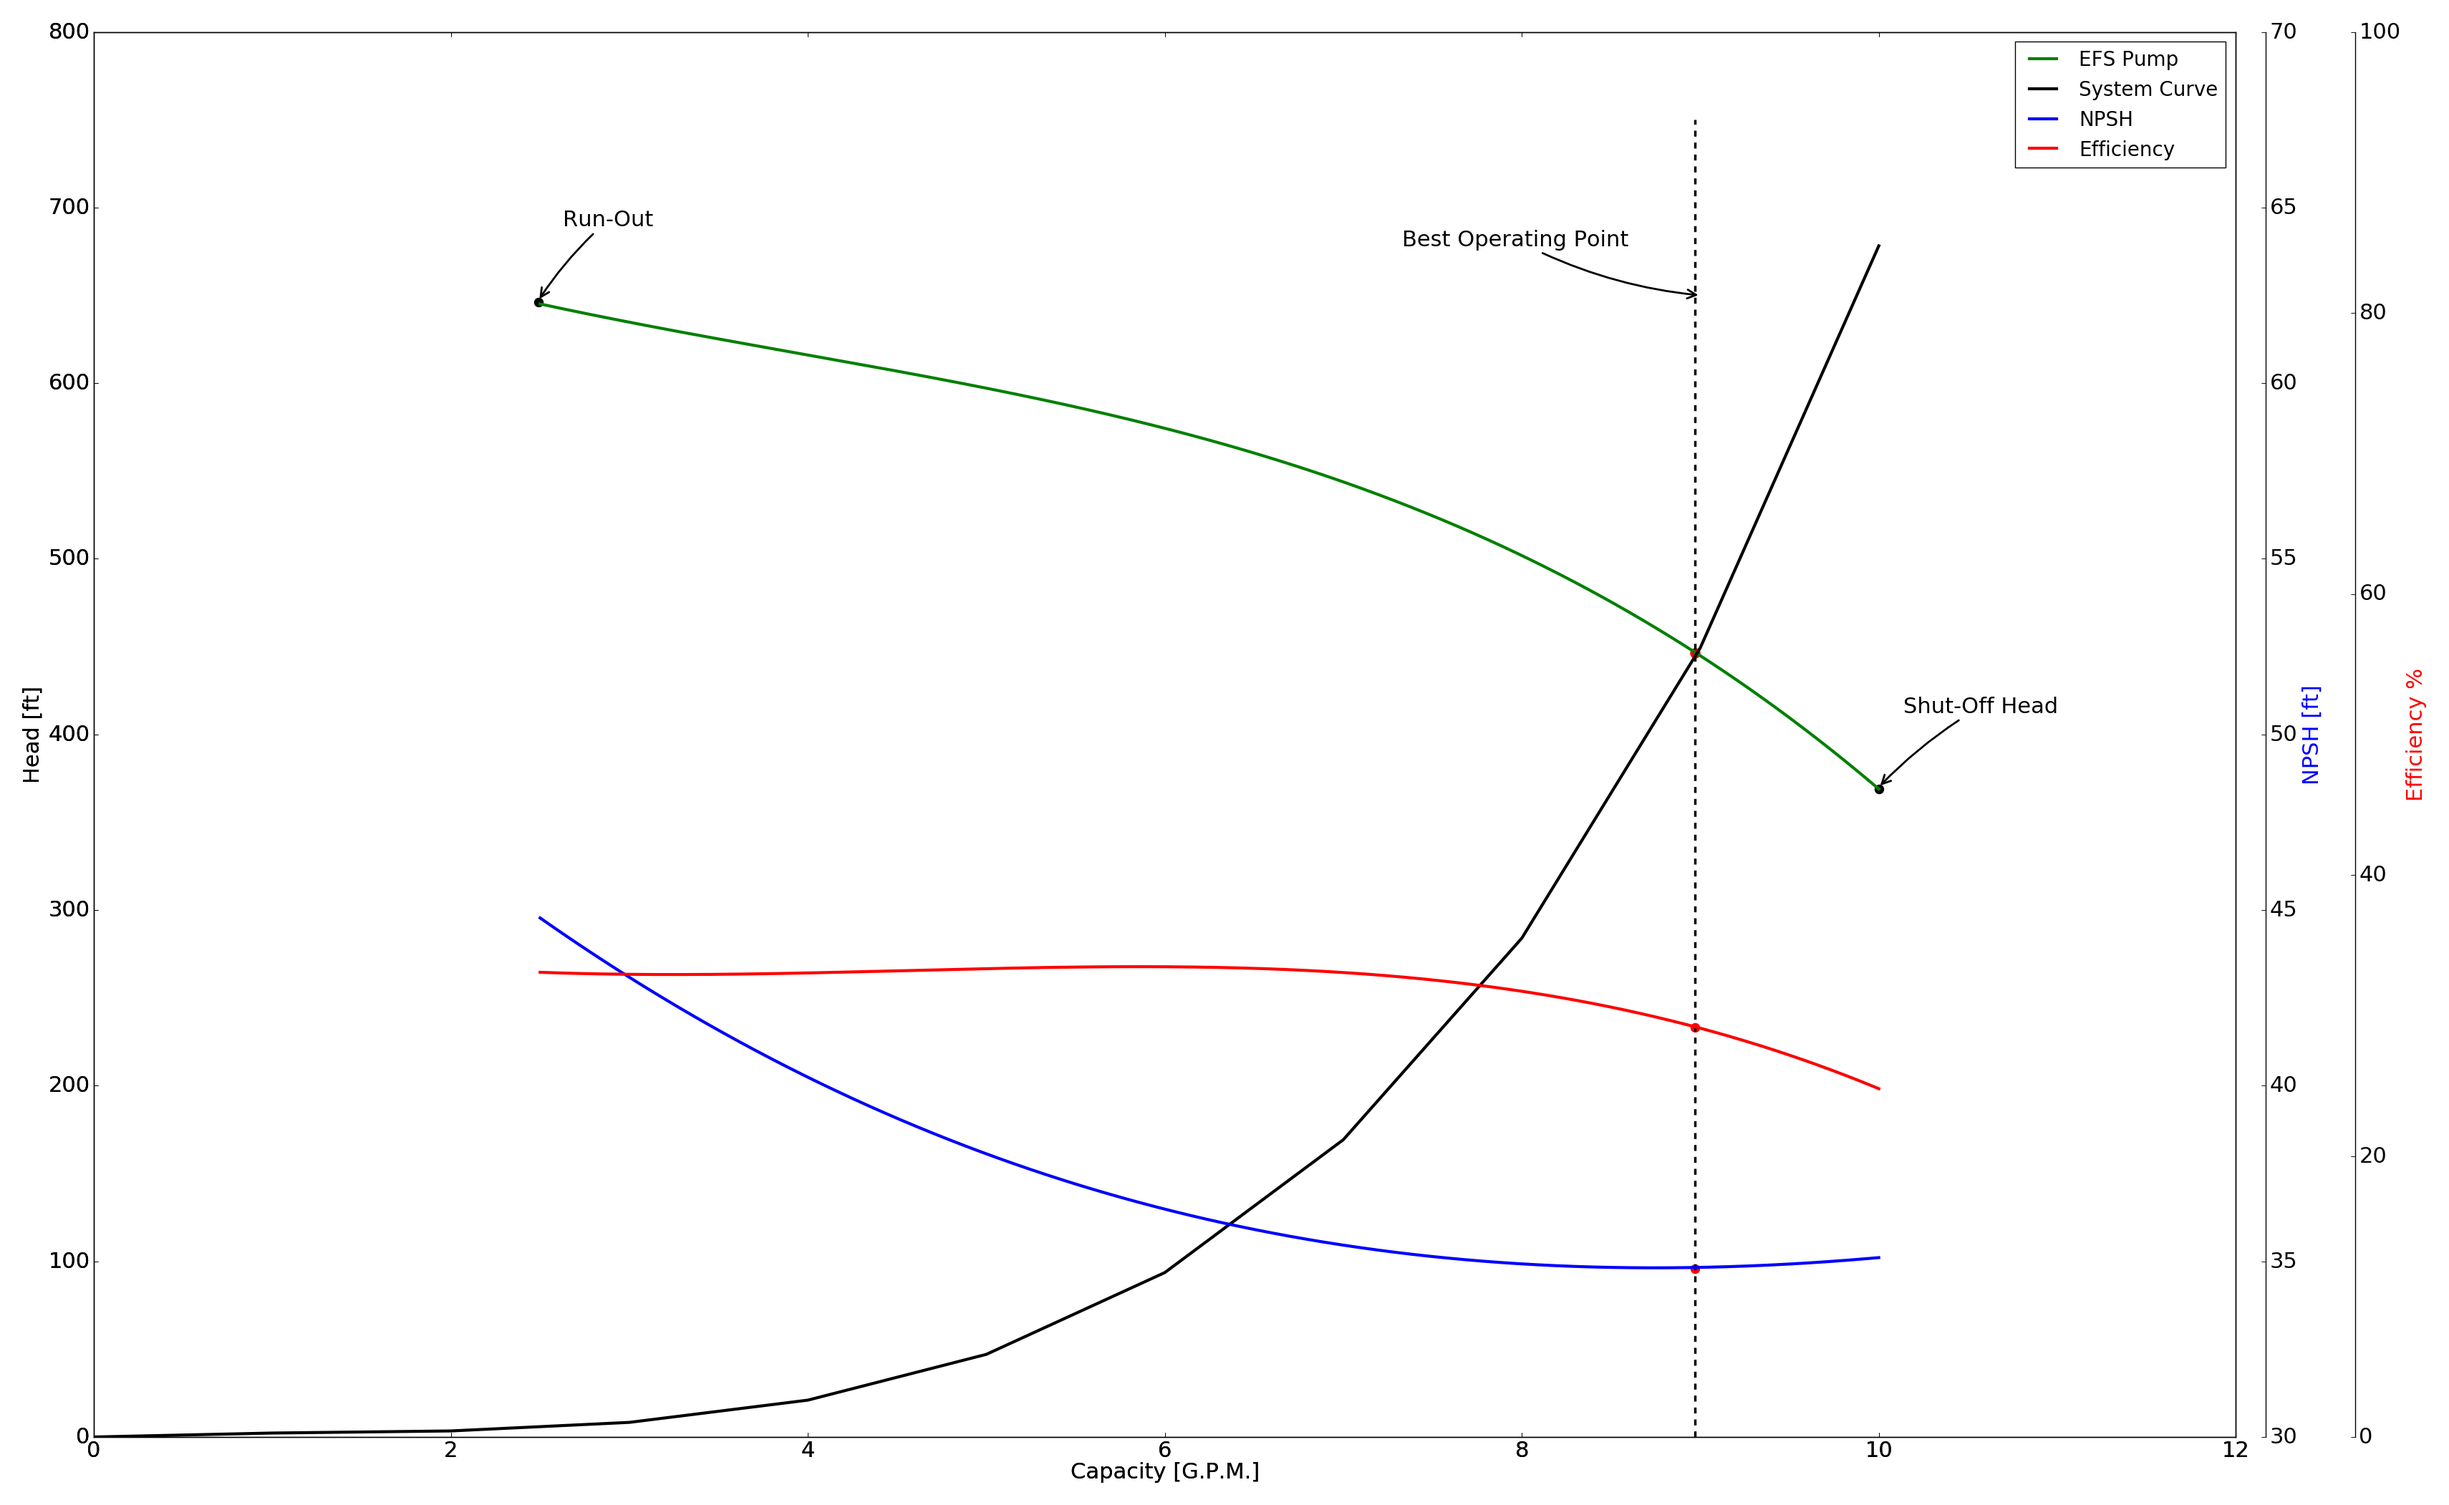
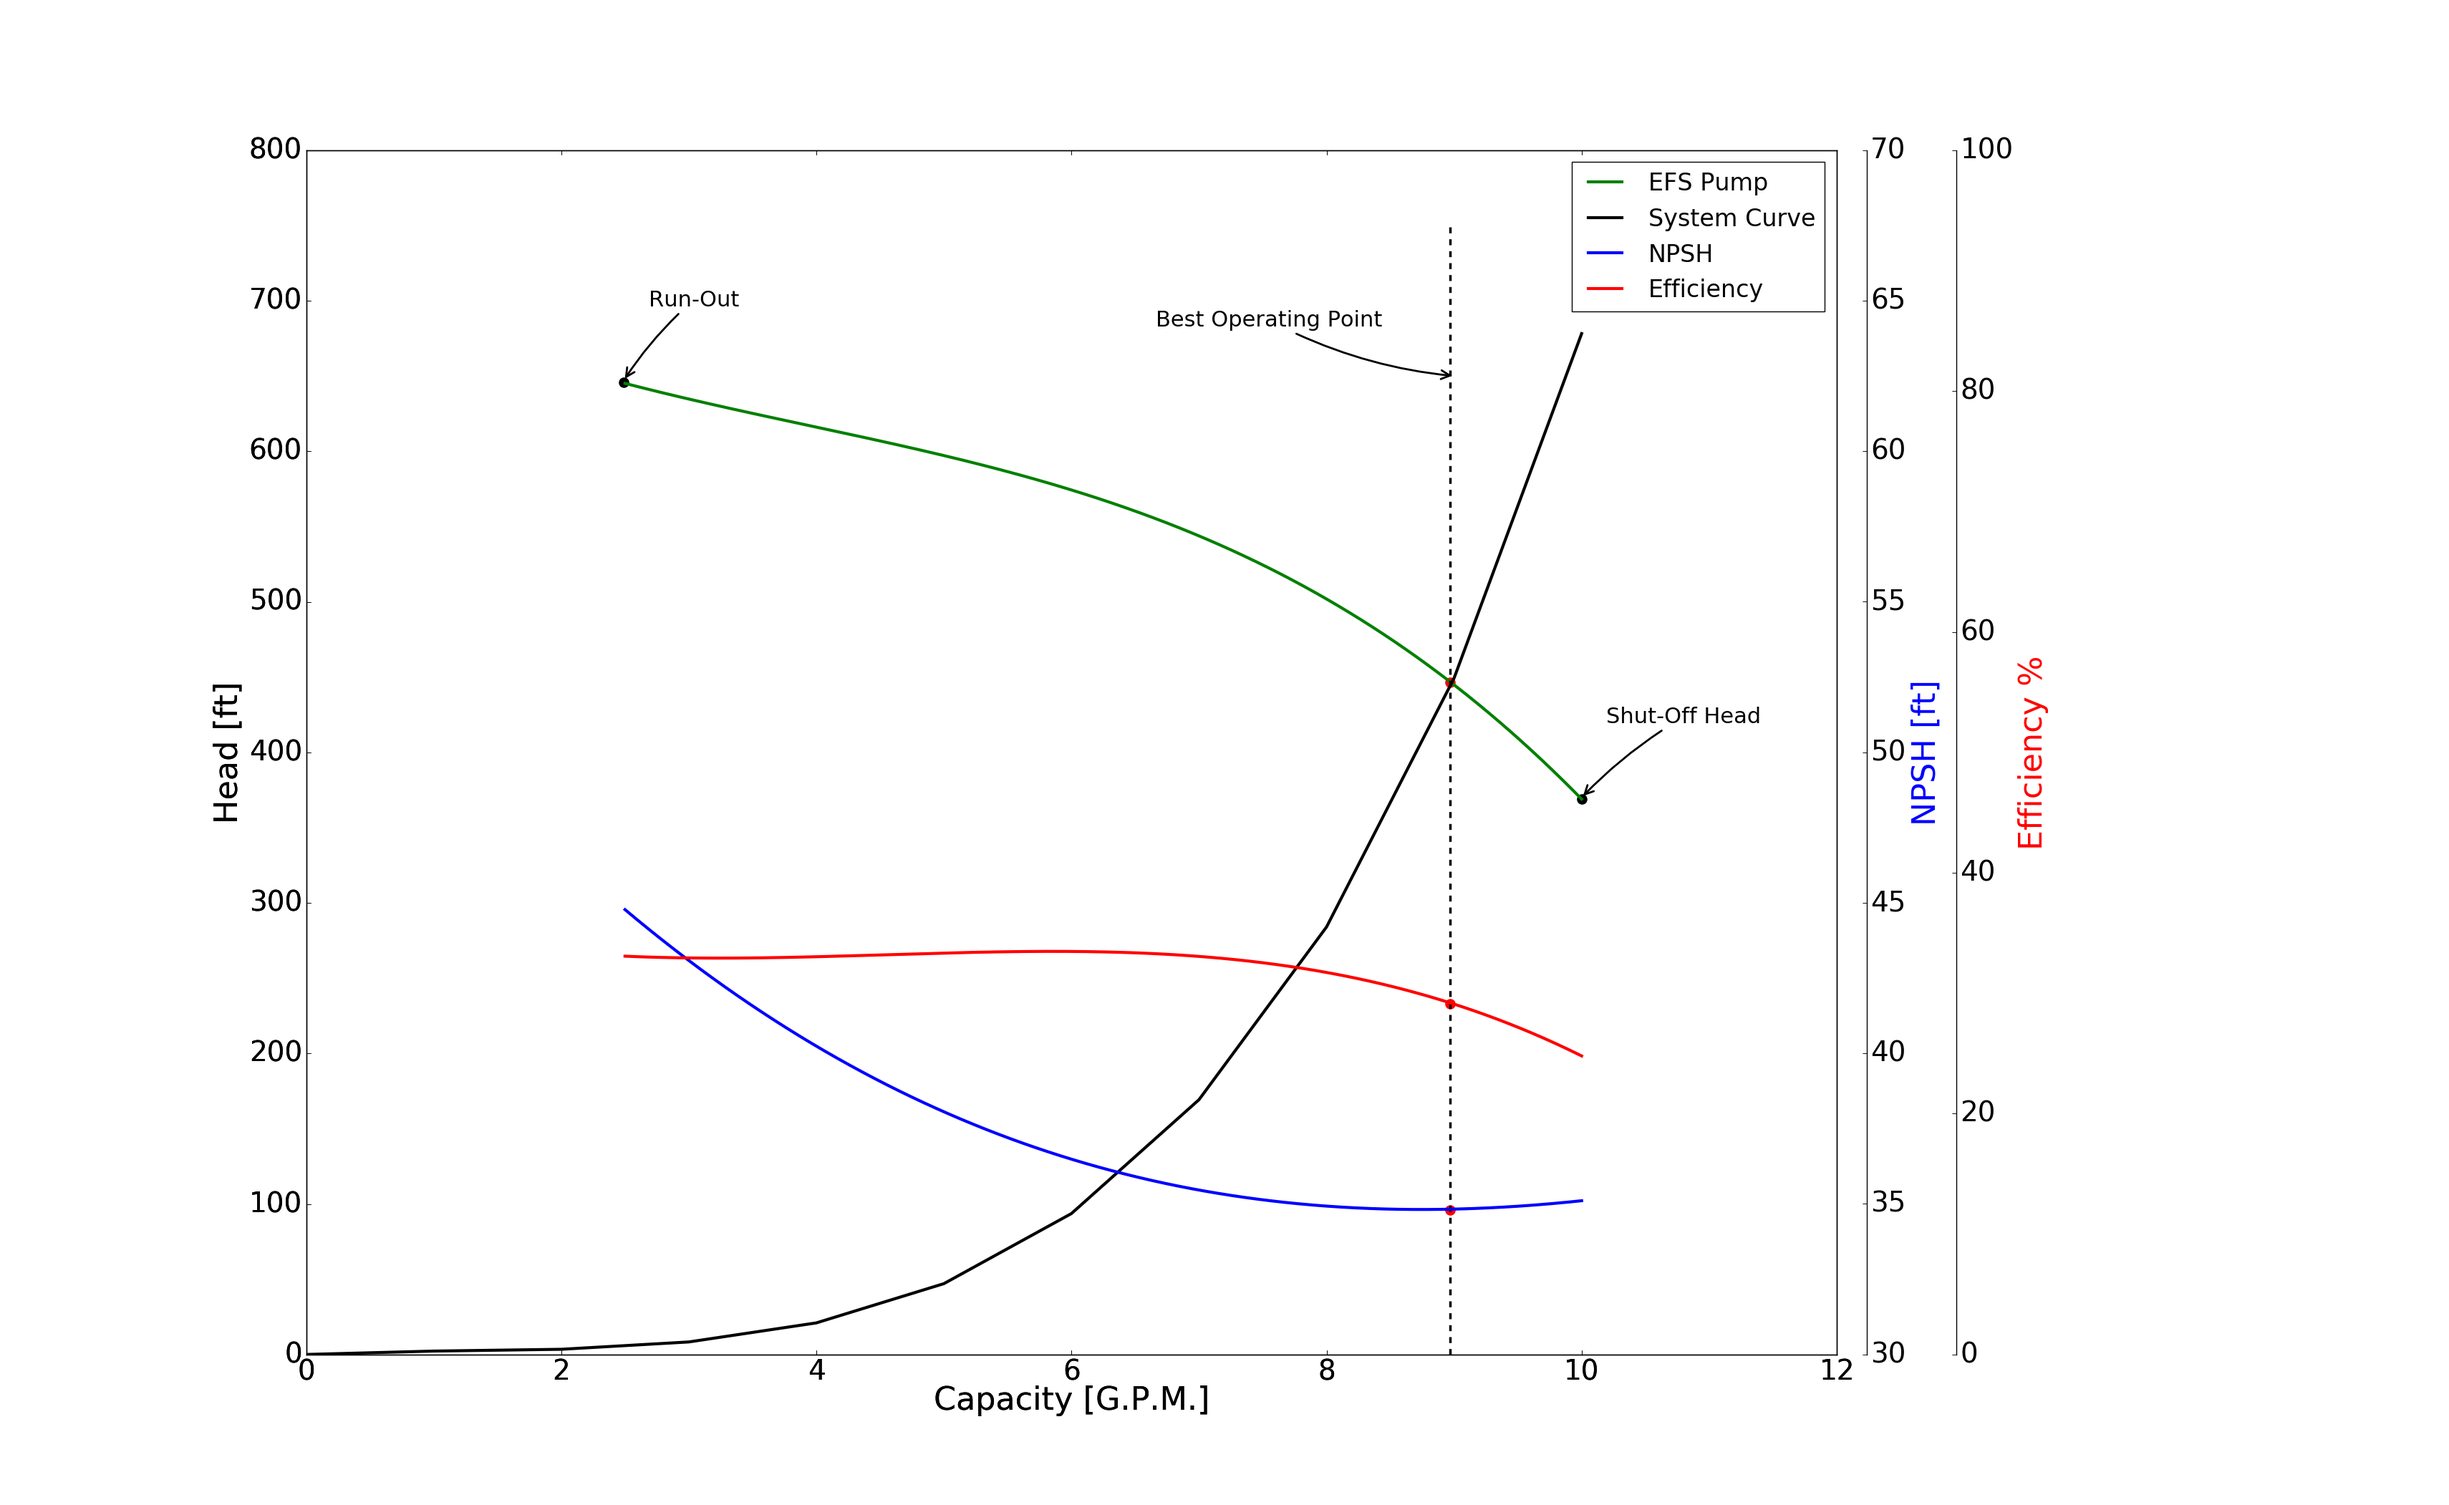
Fixed plot formatting error

diff --git a/Performance/Data/Processing/Performance_plot_gen.py b/Performance/Data/Processing/Performance_plot_gen.py
@@ -57,7 +57,7 @@ xs3 = np.linspace(2.5, 10, 1000)
 sp3.set_smoothing_factor(200)
 
 #################################################################################
-params = {'axes.labelsize': 22,'axes.titlesize':1, 'font.size': 20, 'legend.fontsize': 20, 'xtick.labelsize': 22, 'ytick.labelsize': 22}
+params = {'axes.labelsize': 32,'axes.titlesize':1, 'font.size': 20, 'legend.fontsize': 24, 'xtick.labelsize': 28, 'ytick.labelsize': 28}
 plt.rcParams.update(params)
 
 host = host_subplot(111, axes_class=AA.Axes)
@@ -111,10 +111,10 @@ par3.axis["right"].label.set_color(p4.get_color())
 
 plt.plot([8.97, 8.97], [0, 750], color='black', linewidth=2.5, linestyle="--")
 plt.scatter([8.97, ], 446.438, color='red', s = 90)
-plt.scatter([8.97, ], 232.97, color='red', s = 75)
-plt.scatter([8.97, ], 96, color='red', s = 75)
-plt.scatter([2.49, ], 646, color='black', s = 75)
-plt.scatter([10, ], 369, color='black', s = 75)
+plt.scatter([8.97, ], 232.97, color='red', s = 90)
+plt.scatter([8.97, ], 96, color='red', s = 90)
+plt.scatter([2.49, ], 646, color='black', s = 90)
+plt.scatter([10, ], 369, color='black', s = 90)
 
 # Point Moarkers
 plt.annotate('Best Operating Point',
